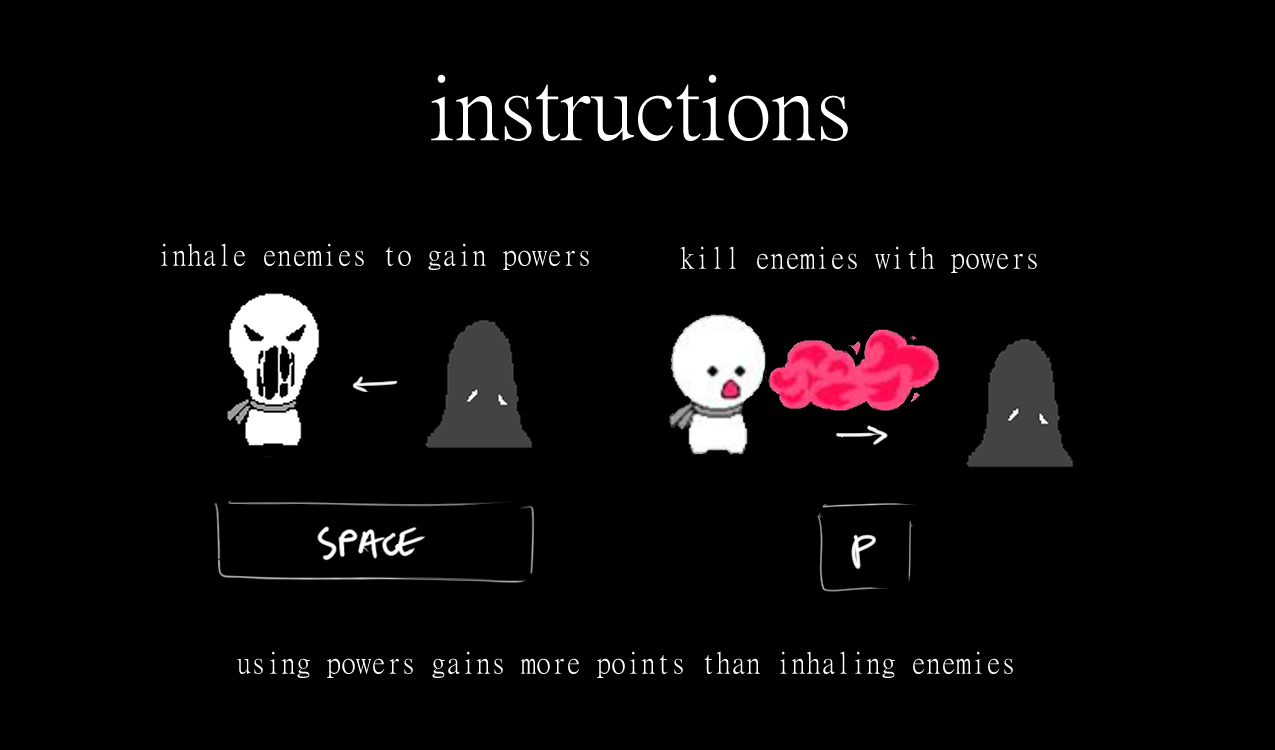
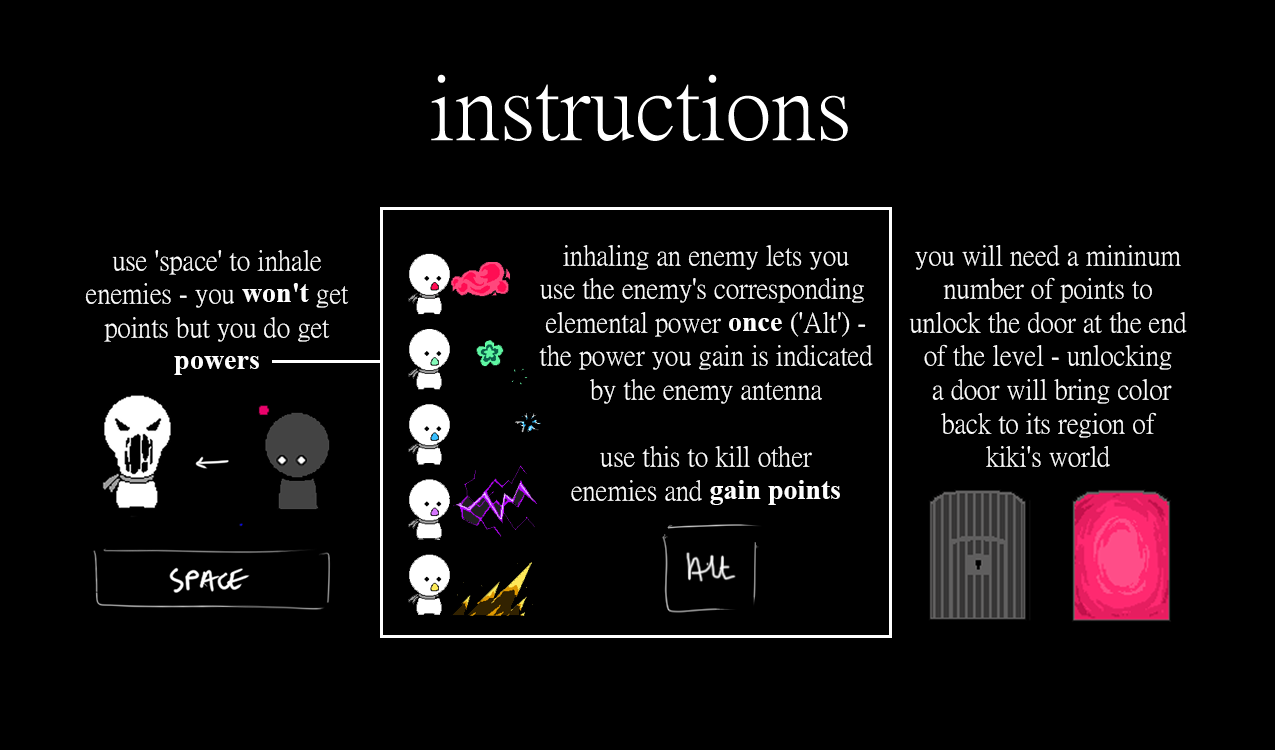
updated instructions + panels for background gradients

diff --git a/minimalist-game-framework-core/Game/Scene.cs b/minimalist-game-framework-core/Game/Scene.cs
@@ -53,8 +53,26 @@ class Scene
     // door
     public static Texture door = Engine.LoadTexture("door.png");
 
-    static readonly Texture backgroundGrey = Engine.LoadTexture("Kirby red level background - Grayscale.png");
-    static readonly Texture backgroundColor = Engine.LoadTexture("Kirby red level background.png");
+    static readonly Texture backgroundGrey1 = Engine.LoadTexture("forest.png");
+    static readonly Texture backgroundColor1 = Engine.LoadTexture("forest greyscale1.png");
+
+    static readonly Texture[] background1 = { Engine.LoadTexture("forest greyscale1.png"),
+                                              Engine.LoadTexture("forest greyscale2.png"),
+                                              Engine.LoadTexture("forest greyscale3.png"),
+                                              Engine.LoadTexture("forest greyscale4.png"),
+                                              Engine.LoadTexture("forest greyscale5.png"),
+                                              Engine.LoadTexture("forest.png")};
+
+    static readonly Texture backgroundGrey2 = Engine.LoadTexture("fire cliffs.png");
+    static readonly Texture backgroundColor2 = Engine.LoadTexture("fire cliffs greyscale1.png");
+
+    static readonly Texture[] background2 = { Engine.LoadTexture("fire cliffs greyscale1.png"),
+                                              Engine.LoadTexture("fire cliffs greyscale2.png"),
+                                              Engine.LoadTexture("fire cliffs greyscale3.png"),
+                                              Engine.LoadTexture("fire cliffs greyscale4.png"),
+                                              Engine.LoadTexture("fire cliffs greyscale5.png"),
+                                              Engine.LoadTexture("fire cliffs.png")};
+
     static Font font = Engine.LoadFont("font.ttf", 20);
     static int numBlocksLevel1 = 122;
     static int numBlocksLevel2 = 202;
@@ -62,8 +80,8 @@ class Scene
     public static Block[] blocks;
     public static Player player = new Player(blocks);
     static EnemyManager enemyManager;
-    static Level level1 = new Level(backgroundColor, backgroundGrey, numBlocksLevel1, "Assets/trial level coords.txt", "Assets/level 1 enemies.txt");
-    static Level level2 = new Level(backgroundColor, backgroundGrey, numBlocksLevel2, "Assets/env coords.txt", "Assets/level 1 enemies.txt");
+    static Level level1 = new Level(backgroundColor1, backgroundGrey1, numBlocksLevel1, "Assets/trial level coords.txt", "Assets/level 1 enemies.txt");
+    static Level level2 = new Level(backgroundColor2, backgroundGrey2, numBlocksLevel2, "Assets/env coords.txt", "Assets/level 1 enemies.txt");
 
     static int screen = 0;
     static int numLevel = 1;
@@ -129,6 +147,7 @@ class Scene
         //levels
         else if (screen == 4)
         {
+
             if (numLevel == 1)
             {
                 UpdateLevel(level1);
@@ -149,12 +168,13 @@ class Scene
             }
             else
             {
-                menuButtons();
+                
                 Engine.DrawTexture(gameover, Vector2.Zero);
                 Engine.DrawString("High Score: " + player.highScore(), new Vector2(550, 100), Color.White, font);
+                
                 if ((Engine.GetMouseButtonDown(MouseButton.Left)) && (!menuOpen))
                 {
-                    screen = 6;
+                    screen = 4;
                 }
             }
 
@@ -458,7 +478,7 @@ class Scene
         Engine.DrawString("Current Score: " + player.points.ToString(),
                             new Vector2(1000, 50), Color.White, font);
         Bounds2 hFrameBounds = new Bounds2(((int)(player.health / 100)) * 110, 0, 110, 20);
-        Engine.DrawTexture(healthSheet, new Vector2(1000, 80), source: hFrameBounds, size: new Vector2(220, 40));
+        Engine.DrawTexture(healthSheet, new Vector2(985, 80), source: hFrameBounds, size: new Vector2(220, 40));
 
         if (player.getKPosition().Y >= 1000)
         {

diff --git a/minimalist-game-framework-core/Game/Player.cs b/minimalist-game-framework-core/Game/Player.cs
@@ -217,7 +217,7 @@ class Player
             bound = 100;
             inhale = true;
         }
-        if (usingPower||(Engine.GetKeyDown(Key.P)&&currP!=-1))
+        if (usingPower||((Engine.GetKeyDown(Key.LeftAlt)|| Engine.GetKeyDown(Key.RightAlt)) &&currP!=-1))
         {
             texK = powers;
             kIdle = false;
